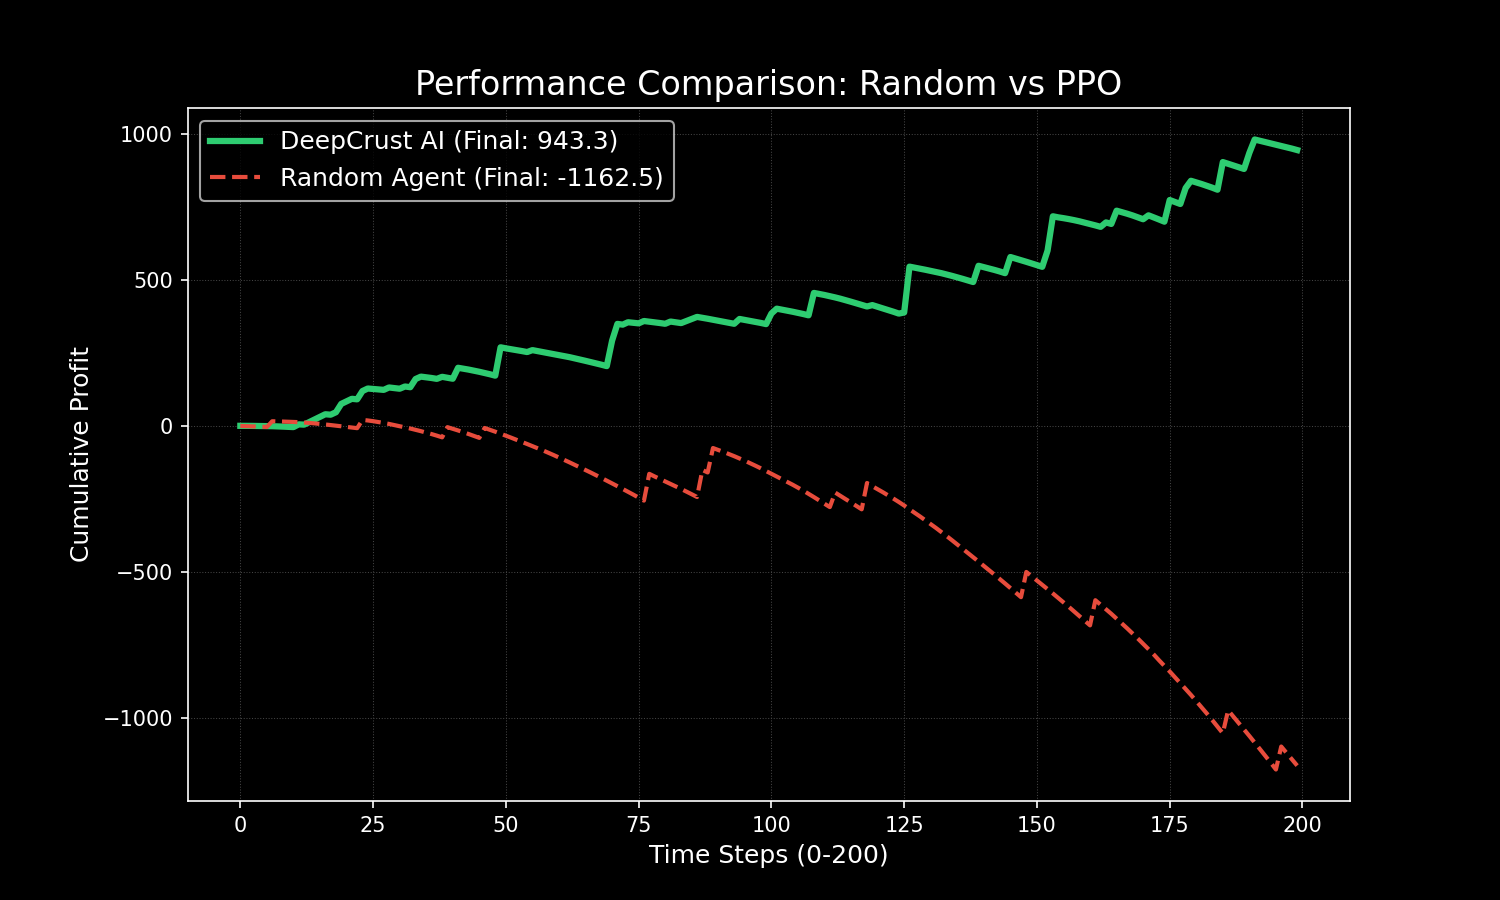
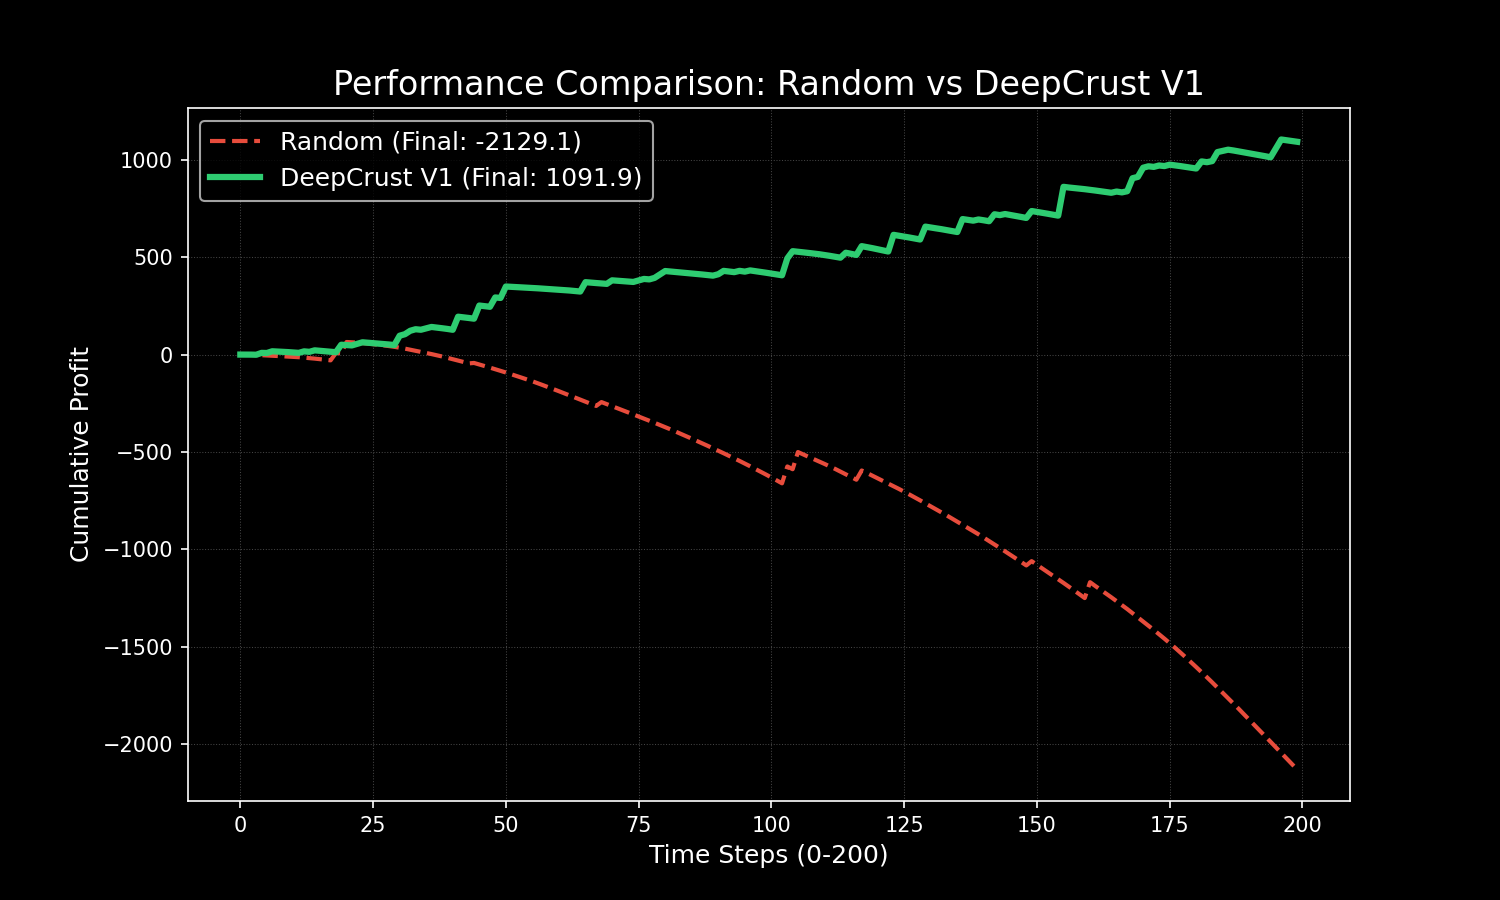
make it ready for comparison

diff --git a/plot_demand.py b/plot_demand.py
@@ -4,10 +4,9 @@ from env.DeepCrustEnv import DeepCrustEnv
 from stable_baselines3 import PPO
 
 # --- CONFIGURATION ---
-MODEL_PATH = "deepcrust_fleet_v2_parallel.zip"
 STEPS = 200
 SEED = 42
-CITY_NAMES = ["University", "Burbs", "Downtown", "Stadium", "Industrial"]
+CITY_NAMES = ["Brugg Bhf", "Neumarkt", "Königsfelden", "Vindonissa", "Industrie"]
 
 
 def get_orders(env):
@@ -19,7 +18,7 @@ def get_orders(env):
     return env.state[start:end].copy()
 
 
-def get_demand_curves(agent_type="none"):
+def get_demand_curves(agent_type="none", model_path=""):
     env = DeepCrustEnv()
     # CRITICAL: Same seed ensures exact same customer orders for fair comparison
     obs, _ = env.reset(seed=SEED)
@@ -27,9 +26,9 @@ def get_demand_curves(agent_type="none"):
     model = None
     if agent_type == "ai":
         try:
-            model = PPO.load(MODEL_PATH)
+            model = PPO.load(model_path)
         except:
-            print(f"Warning: Model {MODEL_PATH} not found.")
+            print(f"Warning: Model {model_path} not found.")
             return [[] for _ in range(5)]
 
     histories = [[] for _ in range(5)]
@@ -59,15 +58,13 @@ def get_demand_curves(agent_type="none"):
 print("1. Simulating 'No Delivery' (Red)...")
 data_none = get_demand_curves(agent_type="none")
 
-print("2. Simulating 'Random Agent' (Yellow)...")
-data_random = get_demand_curves(agent_type="random")
+print("2. Simulating 'AI 1' (Yellow)...")
+ai1_name="random"
+data_ai1 = get_demand_curves(agent_type="random")
 
-print("3. Simulating 'AI Agent' (Green)...")
-data_ai = get_demand_curves(agent_type="ai")
-
-if not data_ai[0]:
-    print("Error: No AI data generated.")
-    exit()
+print("3. Simulating 'AI 2' (Green)...")
+ai2_name="Deep Crust AI1"
+data_ai2 = get_demand_curves(agent_type="ai", model_path="deepcrust_fleet_v2_parallel.zip")
 
 # --- PLOTTING ---
 plt.style.use('dark_background')
@@ -80,22 +77,20 @@ for i in range(5):
 
     # Get data for this specific city
     y_none = data_none[i]
-    y_random = data_random[i]
-    y_ai = data_ai[i]
+    y_ai1 = data_ai1[i]
+    y_ai2 = data_ai2[i]
 
     # PLOT LINES
     # 1. Total Demand (Baseline)
     ax.plot(y_none, color='#e74c3c', linestyle='--', linewidth=2, label='Incoming Demand (Baseline)')
 
-    # 2. Random Agent
-    ax.plot(y_random, color='#f1c40f', linewidth=2, alpha=0.8, label='Random Agent')
+    # 2. AI 1
+    ax.plot(y_ai1, color='#f1c40f', linewidth=2, alpha=0.8, label=ai1_name)
 
     # 3. AI Agent
-    ax.plot(y_ai, color='#2ecc71', linewidth=3, label='DeepCrust AI')
+    ax.plot(y_ai2, color='#2ecc71', linewidth=3, label=ai2_name)
 
-    # Fill area to show AI improvement over Random
-    # (Optional: Fills green where AI is lower than Random)
-    ax.fill_between(range(len(y_ai)), y_random, y_ai, where=(np.array(y_ai) < np.array(y_random)),
+    ax.fill_between(range(len(y_ai2)), y_ai1, y_ai2, where=(np.array(y_ai2) < np.array(y_ai1)),
                     color='#2ecc71', alpha=0.1, interpolate=True)
 
     ax.set_title(f"{city_name}", fontsize=14, color='white', fontweight='bold')

diff --git a/comparison_graph.py b/comparison_graph.py
@@ -5,7 +5,8 @@ from stable_baselines3 import PPO
 
 # --- SETTINGS ---
 steps = 200  # Length of one 'day'
-model_path = "deepcrust_fleet_v2_parallel"  # Use your latest model filename
+model_path_1 = "deepcrust_fleet_v2_parallel"  # Use your latest model filename
+model_path_2 = "deepcrust_fleet_v2_parallel"  # Use your latest model filename
 
 
 def run_episode(agent_type, model=None):
@@ -35,23 +36,29 @@ def run_episode(agent_type, model=None):
 
 # 1. Run Random Agent
 print("Running Random Agent...")
-random_history = run_episode("Random")
+ai1_history = run_episode("Random")
+
+# print("Running Trained AI...")
+# if str(model_path_1).endswith(".zip"): model_path = model_path_1[:-4]  # Clean path
+# model = PPO.load(model_path_1)
+# ai1_history = run_episode("AI", model)
+ai1_name = "Random"
 
 # 2. Run AI Agent
 print("Running Trained AI...")
-if str(model_path).endswith(".zip"): model_path = model_path[:-4]  # Clean path
-model = PPO.load(model_path)
-ai_history = run_episode("AI", model)
+if str(model_path_2).endswith(".zip"): model_path = model_path_2[:-4]  # Clean path
+model = PPO.load(model_path_2)
+ai2_history = run_episode("AI", model)
+ai2_name = "DeepCrust V1"
 
 # 3. Plot
 plt.style.use('dark_background')  # Looks cooler
 plt.figure(figsize=(10, 6))
 
-plt.plot(ai_history, color='#2ecc71', linewidth=3, label=f'DeepCrust AI (Final: {ai_history[-1]:.1f})')
-plt.plot(random_history, color='#e74c3c', linewidth=2, linestyle='--',
-         label=f'Random Agent (Final: {random_history[-1]:.1f})')
+plt.plot(ai1_history, color='#e74c3c', linewidth=2, linestyle='--', label=f'{ai1_name} (Final: {ai1_history[-1]:.1f})')
+plt.plot(ai2_history, color='#2ecc71', linewidth=3, label=f'{ai2_name} (Final: {ai2_history[-1]:.1f})')
 
-plt.title('Performance Comparison: Random vs PPO', fontsize=16, color='white')
+plt.title(f'Performance Comparison: {ai1_name} vs {ai2_name}', fontsize=16, color='white')
 plt.xlabel('Time Steps (0-200)', fontsize=12)
 plt.ylabel('Cumulative Profit', fontsize=12)
 plt.grid(color='#444444', linestyle=':', linewidth=0.5)

diff --git a/env/DeepCrustEnv.py b/env/DeepCrustEnv.py
@@ -24,7 +24,7 @@ class DeepCrustEnv(gym.Env):
         self.delivery_reward = 10
         self.anger_penalty_factor = 0.2
         self.loitering_penalty = 0.5
-        #self.refill_reward = 0.1 # maybe add later to increase training rewards
+        self.freshness_decay = 0.5
 
         self.render_mode = render_mode
 

diff --git a/train.py b/train.py
@@ -68,10 +68,9 @@ def train():
     )
 
     print("--- TRAINING COMPLETE ---")
-    model.save("deepcrust_fleet_v2_parallel")
+    model.save("deepcrust_fleet_v3_cold_pizza")
     run.finish()
 
 
 if __name__ == "__main__":
-    # IMPORTANT: On Windows/Mac, multiprocessing requires this guard block
     train()
